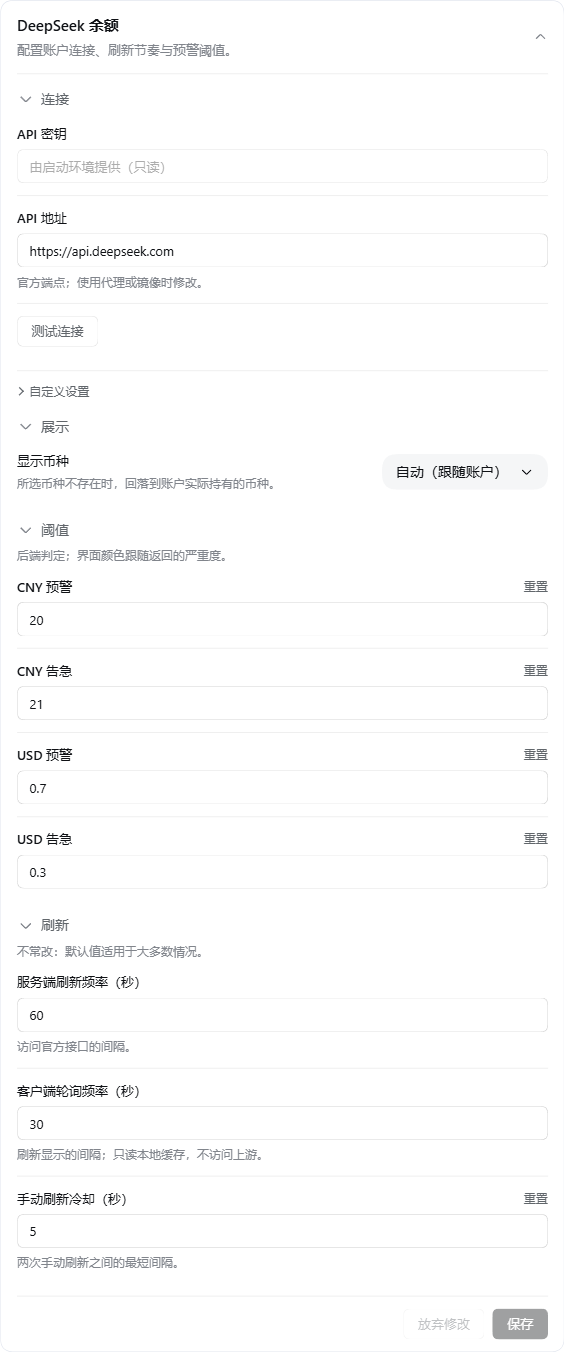
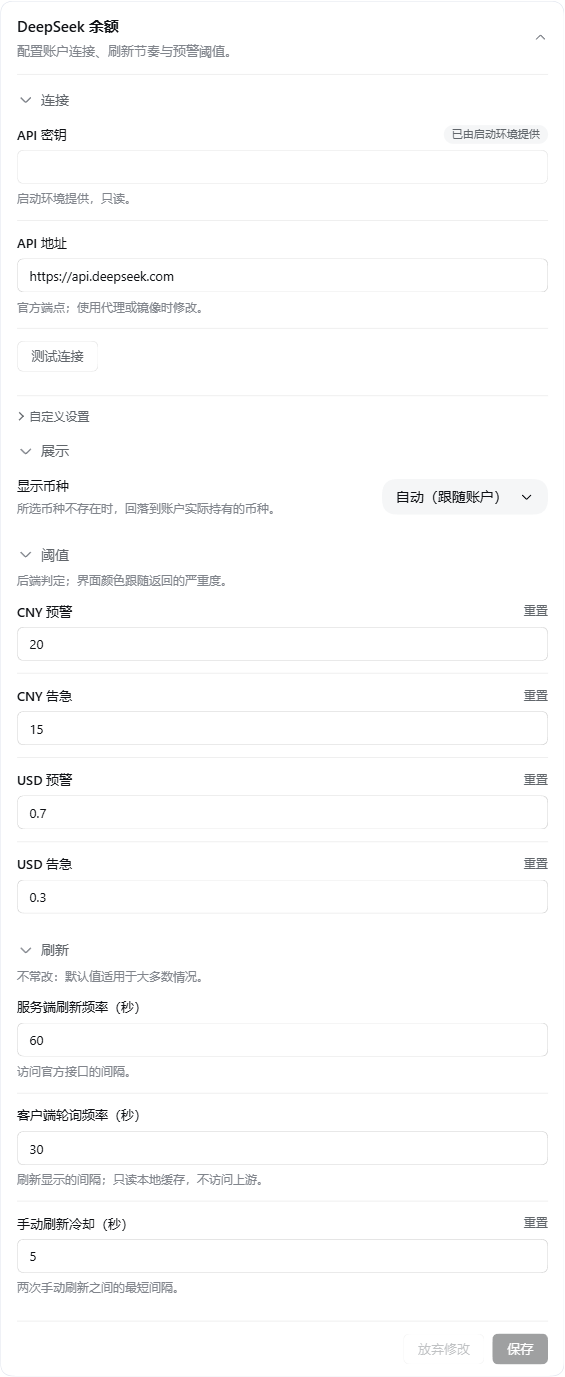
设置卡片：只读凭据行去掉占位符，状态改走徽章与说明行
改了什么
- ReadOnlyControl 不再收 placeholder：框内留空，仍是 disabled 的真输入框。
- 只读凭据行的标签右侧加状态徽章（四档），下方加一行说明。
  四档：已由启动环境提供 / 已配置 / 未配置 / 已覆盖。
- 四个新词典键（中英各四）：settings.hint.credential.{env,configured,notConfigured,overridden}。
  「已配置」那条的说明逐字用官方 webSearchApiKeyHint：不写入设置文件。留空表示保持当前密钥。
- settings.credential.envLocked 从「输入框占位符」改作「状态徽章」，
  文案由「由启动环境提供（只读）」缩成「已由启动环境提供」。

四档的判据抽成纯函数
- use-credential-state.ts 新增 credentialViewOf(credential, overridden) 与类型 CredentialView。
- 它回答的是「当前生效的值从哪来」，不是「这个框能不能改」；优先级：覆盖 > 环境 > 配没配。
- 读不到凭据信息（null）一律当「环境提供」—— 这一行本来就是只读展示，
  说「环境提供」在任何未知下都不会说错话，也不会因为宿主旧结构把卡片打挂。
- 抽出来的理由是这条优先级最容易改错，抽出来才有专门用例兜底。

为什么去掉占位符
- 灰字写在框里读起来像「这里该填但没填」，而这一行恰恰是不能填的。
- 状态与因由分开：徽章答「现在是什么」，说明行答「为什么」。

apiKeyRef
- 它在「自定义设置」折叠里、本来就是可编辑字段，徽章早走 credentialStatus（已配置 / 未配置 / 已覆盖）。
  本次只保证四档措辞一致，未改结构。

截图同批重截
- 这次动的是卡片渲染面（JSX 结构 + 文案），按 assets/AGENTS.md 的判据必须重截。
- 两张在同一轮里重拍：中文先拍，切 English 再拍，拍完把语言切回中文。
- 图里 API 密钥那一行现在是「框内留空 + 徽章 + 说明行」，与代码一致。

文档同步（9 处）
- docs/ARCHITECTURE.md 两处：徽标清单、连接组两段式的描述。
- docs/backend-architecture.md：凭据段落的措辞。
- src/client/settings/README.md：ReadOnlyControl 与 use-credential-state 的职责 / 导出 / 改后必测。
- src/client/settings/AGENTS.md：只读形态那条规则重写，并新增「四档只有一个判据」。
- 根 README / README_en：能力清单的徽标措辞。
- assets/README.md、assets/AGENTS.md：截图判据补「框内应当是空的」。

怎么验证
- npm test 26 个文件 283 个用例全过（原 25 / 278；新增 test/use-credential-state.test.ts 的 5 条）。
- npm run typecheck 三段退出码 0；check-links 0 错 0 警；check-line-endings 0 不一致。
- 两张截图逐张读过：API 密钥行是空框 + 徽章「已由启动环境提供」/「Provided by launch environment」
[…]

diff --git a/src/client/settings/BalanceSettingsCard.tsx b/src/client/settings/BalanceSettingsCard.tsx
@@ -19,7 +19,8 @@ import {
 import type { FieldStatus, SelectorOption } from './fields.tsx'
 import { AUTO_CURRENCY, currencyCodes, useConfigForm } from './use-config-form.ts'
 import type { SettingsScope } from './use-config-form.ts'
-import { useCredentialState } from './use-credential-state.ts'
+import { credentialViewOf, useCredentialState } from './use-credential-state.ts'
+import type { CredentialView } from './use-credential-state.ts'
 import css from './BalanceSettingsCard.module.css'
 import fieldCss from './fields.module.css'
 
@@ -35,6 +36,25 @@ export interface BalanceSettingsCardProps {
 
 /** 与宿主 schema 的默认值逐字一致的凭据引用名；快照缺字段时兜底。 */
 const DEFAULT_API_KEY_REF = 'DEEPSEEK_API_KEY'
+
+/**
+ * 只读凭据行的状态徽章。
+ * 四档的判据在 `use-credential-state.ts` 的 `credentialViewOf`：它答的是「当前生效的值从哪来」。
+ */
+const CREDENTIAL_BADGE: Readonly<Record<CredentialView, LocaleKey>> = {
+  env: 'settings.credential.envLocked',
+  configured: 'settings.configured',
+  notConfigured: 'settings.notConfigured',
+  overridden: 'settings.overridden',
+}
+
+/** 徽章下方那一行说明，逐档对应。 */
+const CREDENTIAL_HINT: Readonly<Record<CredentialView, LocaleKey>> = {
+  env: 'settings.hint.credential.env',
+  configured: 'settings.hint.credential.configured',
+  notConfigured: 'settings.hint.credential.notConfigured',
+  overridden: 'settings.hint.credential.overridden',
+}
 
 /** 四个配置分组的键。 */
 type GroupKey = 'connection' | 'display' | 'thresholds' | 'refresh'
@@ -193,13 +213,9 @@ export function BalanceSettingsCard({ t, scope }: BalanceSettingsCardProps) {
     ? apiKeyRef.effective
     : DEFAULT_API_KEY_REF
   const credential = useCredentialState(effectiveRef)
-  // 读不到一律当「只读」：这个字段本来就是只读状态展示，编辑入口在下面的「自定义设置」，
-  // 所以「当只读」在任何一种未知情况下都不会说错话，也不会因为字段缺失把卡片打挂。
-  const credentialPlaceholder = credential?.writable === true
-    ? credential.configured
-      ? t('settings.configured')
-      : t('settings.notConfigured')
-    : t('settings.credential.envLocked')
+  // 只读凭据行显示哪一档：覆盖优先（折叠里存过值就是它生效），其次才看宿主能不能写。
+  // 「读不到就说什么」的策略也在这个函数里，见它的文档注释。
+  const credentialView = credentialViewOf(credential, apiKey.stored || apiKeyRef.stored)
 
   const currency = form.field('displayCurrency')
   const currencyId = typeof currency.value === 'string' && currency.value !== '' ? currency.value : AUTO_CURRENCY
@@ -278,23 +294,26 @@ export function BalanceSettingsCard({ t, scope }: BalanceSettingsCardProps) {
               open={groupOpenNow('connection')}
               onToggle={() => { toggleGroup('connection') }}
             >
-              {/* 凭据状态：只读。结构照搬官方「模型」卡片对「启动环境提供的密钥」的处理 ——
-                  字段照常渲染，disabled + 只读占位说明，整块降到 60%，而不是隐藏或另做只读块。
+              {/* 凭据状态：只读展示。结构照搬官方「模型」卡片对「启动环境提供的密钥」的处理 ——
+                  字段照常渲染，disabled、整块降到 60%，而不是隐藏或另做只读块。
+                  **框内不写字**：状态改由标签行右侧的徽章（四档）与它下方的说明行承担；
+                  灰字占位符读起来像「这里该填但没填」，语气是错的。
                   要覆盖它，展开下方的「自定义设置」。 */}
               <FieldFrame
                 id={FIELD_IDS.apiKeyState ?? 'apiKeyState'}
                 label={t('settings.field.apiKey')}
+                status={{ label: t(CREDENTIAL_BADGE[credentialView]), tone: credentialView === 'notConfigured' ? 'quiet' : 'neutral' }}
                 pending={false}
                 resettable={false}
                 pendingLabel={t('settings.unsaved')}
                 resetLabel={t('settings.reset')}
                 invalid={false}
+                hint={t(CREDENTIAL_HINT[credentialView])}
                 disabled
                 onReset={() => {}}
               >
                 <ReadOnlyControl
                   id={FIELD_IDS.apiKeyState ?? 'apiKeyState'}
-                  placeholder={credentialPlaceholder}
                 />
               </FieldFrame>
 

diff --git a/src/client/locales.ts b/src/client/locales.ts
@@ -60,8 +60,14 @@ export const zh = {
   'settings.hint.clientPollSeconds': '刷新显示的间隔；只读本地缓存，不访问上游。',
   'settings.hint.manualRefreshCooldownSeconds': '两次手动刷新之间的最短间隔。',
   'settings.currency.auto': '自动（跟随账户）',
-  // 逐字对齐官方 settings.models 的 keyEnvLocked：凭据由启动环境提供时字段不可写。
-  'settings.credential.envLocked': '由启动环境提供（只读）',
+  // 凭据只读时的**状态徽章**文案。此前这里放的是输入框占位符，逐字抄官方 settings.models
+  // 的 keyEnvLocked；现在输入框留空、状态走标签行右侧的徽章，措辞随之改短。
+  'settings.credential.envLocked': '已由启动环境提供',
+  // 只读凭据行下方的说明，按状态四选一。其中「已配置」那条逐字用官方 webSearchApiKeyHint。
+  'settings.hint.credential.env': '启动环境提供，只读。',
+  'settings.hint.credential.configured': '不写入设置文件。留空表示保持当前密钥。',
+  'settings.hint.credential.notConfigured': '尚未配置。',
+  'settings.hint.credential.overridden': '使用自定义设置里的值，忽略继承。',
   'settings.group.customized': '自定义设置',
   'settings.test': '测试连接',
   'settings.testing': '测试中…',
@@ -151,7 +157,11 @@ export const en: Record<LocaleKey, string> = {
   'settings.hint.clientPollSeconds': 'How often the display refreshes; local cache only.',
   'settings.hint.manualRefreshCooldownSeconds': 'Minimum gap between two manual refreshes.',
   'settings.currency.auto': 'Automatic (follow account)',
-  'settings.credential.envLocked': 'Provided by the launch environment (read-only)',
+  'settings.credential.envLocked': 'Provided by launch environment',
+  'settings.hint.credential.env': 'Provided by the launch environment; read-only.',
+  'settings.hint.credential.configured': 'Never written to the settings file. Leave empty to keep the current key.',
+  'settings.hint.credential.notConfigured': 'Not configured yet.',
+  'settings.hint.credential.overridden': 'Uses the value in Customised settings; the inherited one is ignored.',
   'settings.group.customized': 'Customized settings',
   'settings.test': 'Test connection',
   'settings.testing': 'Testing…',

diff --git a/test/use-credential-state.test.ts b/test/use-credential-state.test.ts
@@ -1,0 +1,44 @@
+import { describe, expect, it } from 'vitest'
+import type { CredentialInfo } from '../src/client/data.ts'
+import { credentialViewOf } from '../src/client/settings/use-credential-state.ts'
+
+/** 造一份凭据描述；只覆写关心的字段。 */
+function credential(patch: Partial<CredentialInfo> = {}): CredentialInfo {
+  return { ref: 'DEEPSEEK_API_KEY', configured: true, source: 'env', writable: true, ...patch }
+}
+
+describe('credentialViewOf', () => {
+  it('覆盖优先：折叠里存过值，生效的就是折叠里那一份', () => {
+    // 宿主可写、凭据域也已配置，但用户在「自定义设置」里放了自己的值。
+    expect(credentialViewOf(credential(), true)).toBe('overridden')
+    // 环境提供时也一样：这一行显示的是当前生效值，不是这个框能不能改。
+    expect(credentialViewOf(credential({ writable: false }), true)).toBe('overridden')
+    expect(credentialViewOf(null, true)).toBe('overridden')
+  })
+
+  it('可写时按配没配分档', () => {
+    expect(credentialViewOf(credential(), false)).toBe('configured')
+    expect(credentialViewOf(credential({ configured: false }), false)).toBe('notConfigured')
+  })
+
+  it('writable 不是 true 时一律算「启动环境提供」', () => {
+    expect(credentialViewOf(credential({ writable: false }), false)).toBe('env')
+    // 值就在环境里，「配没配」不再影响这一行。
+    expect(credentialViewOf(credential({ writable: false, configured: false }), false)).toBe('env')
+  })
+
+  it('读不到凭据信息时当「启动环境提供」，不抛错也不误报可写', () => {
+    // 宿主旧版本、请求失败、字段缺失都走这一条。
+    expect(credentialViewOf(null, false)).toBe('env')
+  })
+
+  it('四档都取得到，没有漏档', () => {
+    const seen = new Set([
+      credentialViewOf(credential(), true),
+      credentialViewOf(credential(), false),
+      credentialViewOf(credential({ configured: false }), false),
+      credentialViewOf(credential({ writable: false }), false),
+    ])
+    expect([...seen].sort()).toEqual(['configured', 'env', 'notConfigured', 'overridden'])
+  })
+})

diff --git a/src/client/settings/fields.tsx b/src/client/settings/fields.tsx
@@ -180,21 +180,22 @@ export function TextControl(props: TextControlProps) {
 }
 
 /**
- * 只读输入：字段照常渲染，但不可编辑，占位符说明为什么。
+ * 只读输入：字段照常渲染，但不可编辑，**框内不写任何文字**。
  *
- * 逐字照搬官方 ProviderEditor 处理「凭据由启动环境提供」的做法：
- * 不是隐藏字段、也不是换一块只读文本，而是 `disabled` 的真输入框配只读占位说明。
- * `readOnly` 与 `disabled` 同时给：前者挡住程序化写入，后者给出官方的视觉与可访问语义。
+ * 不从「隐藏字段」也不从「换一块只读文本」走：仍是 `disabled` 的真输入框，
+ * 与官方凭据字段同一形态。`readOnly` 与 `disabled` 同时给 ——
+ * 前者挡住程序化写入，后者给出官方的视觉与可访问语义。
+ *
+ * **为什么没有 placeholder**：灰字写在框里读起来像「这里该填但没填」。
+ * 只读的因由改由标签行右侧的状态徽章与它下方的说明行承担，那两处的措辞来自词典。
  */
 export interface ReadOnlyControlProps {
   id: string
-  /** 只读原因，逐字来自词典。 */
-  placeholder: string
 }
 
 /**
  * 渲染只读输入。
- * @param props - 控件 id 与只读占位说明。
+ * @param props - 控件 id。
  * @returns 输入框元素。
  */
 export function ReadOnlyControl(props: ReadOnlyControlProps) {
@@ -206,7 +207,6 @@ export function ReadOnlyControl(props: ReadOnlyControlProps) {
       value=""
       readOnly
       disabled
-      placeholder={props.placeholder}
     />
   )
 }

diff --git a/src/client/settings/use-credential-state.ts b/src/client/settings/use-credential-state.ts
@@ -13,6 +13,33 @@
 import { useEffect, useState } from 'react'
 import { requestConfig, type CredentialInfo } from '../data.ts'
 
+/** 只读凭据行要显示的状态。 */
+export type CredentialView = 'env' | 'configured' | 'notConfigured' | 'overridden'
+
+/**
+ * 决定只读凭据行显示哪一档。
+ *
+ * 它回答的是「**当前生效的值从哪来**」，不是「这个框能不能改」：
+ * - `overridden` 优先：折叠里存过 apiKey 或引用名时，生效的就是折叠里那一份。
+ * - 其次看宿主能不能写：写不了就是启动环境给的。
+ * - 再退到「配没配」。
+ * - 凭据信息读不到（`null`）一律当 `env`：这一行本来就是只读展示，编辑入口在下面的
+ *   「自定义设置」，所以「环境提供」在任何未知情况下都不会说错话，也不会因为字段缺失把卡片打挂。
+ *
+ * 优先级本身有测试兜底（`test/use-credential-state.test.ts`）—— 它是最容易被改错的一处。
+ * @param credential - 宿主的凭据描述；`null` 表示读不到。
+ * @param overridden - 用户层是否存着覆盖值（`apiKey` 或引用名）。
+ * @returns 四档之一。
+ */
+export function credentialViewOf(
+  credential: CredentialInfo | null,
+  overridden: boolean,
+): CredentialView {
+  if (overridden) return 'overridden'
+  if (credential?.writable !== true) return 'env'
+  return credential.configured ? 'configured' : 'notConfigured'
+}
+
 /**
  * 订阅凭据的只读描述。
  * @param ref - 当前生效的凭据引用名；它一变就重读一次。

diff --git a/src/client/settings/README.md b/src/client/settings/README.md
@@ -34,7 +34,7 @@
 - 职责：字段行的容器与全部控件，以及分组的折叠头。
 - 关键导出：`FieldGroup`、`FieldFrame`、`FieldBadges`、`TextControl`、`ReadOnlyControl`、`SecretControl`、`SelectorControl`、`ActionRow`、`DetailsGroup`，以及类型 `FieldStatus` 与 `SelectorOption`。
 - `FieldGroup` 的折叠头用原语 `DisclosureRow`，不自己画；展开体由原语在 open 时条件渲染，无动画。
-- `ReadOnlyControl` 是只读输入：字段照常渲染、`disabled` + 只读占位说明，逐字照搬官方 `ProviderEditor` 处理「凭据由启动环境提供」的做法。
+- `ReadOnlyControl` 是只读输入：字段照常渲染、`disabled`、**框内不写任何文字**，形态照搬官方 `ProviderEditor` 的凭据字段。只读的因由改由标签行右侧的状态徽章与它下方的说明行承担，两处文案都来自词典。
 - `DetailsGroup` 是**二级折叠**，用原生 `<details>`/`<summary>` 而不是 `DisclosureRow` —— 官方那一处也是原生 details 配一个 `::before` 折角。它是受控但跟手的：`open` 由 state 持有，用户拨动时从 DOM 读回真实状态，卡片重渲染不会把它弹回去。
 - 类名拼接统一用官方 `clsx`（平台样式规则要求），不自备工具函数。
 - 被谁依赖：`BalanceSettingsCard.tsx`。
@@ -49,12 +49,13 @@
 
 ### use-credential-state.ts
 
-- 职责：问 `GET /api/v1/config` 要凭据的三个事实（`configured` / `source` / `writable`），决定凭据字段显示「由启动环境提供（只读）」还是「已配置 / 未配置」。
-- 关键导出：`useCredentialState(ref)`，返回 `CredentialInfo | null`。
+- 职责：问 `GET /api/v1/config` 要凭据的三个事实（`configured` / `source` / `writable`），决定只读凭据行显示哪一档。
+- 关键导出：`useCredentialState(ref)`（返回 `CredentialInfo | null`）、`credentialViewOf(credential, overridden)` 与类型 `CredentialView`。
+- `credentialViewOf` 是四档的唯一判据，优先级是 覆盖 > 环境 > 配没配；**组件里不许另写一份分支**。
 - **读不到一律当 `null`**：宿主旧版本、请求失败、字段缺失都走这一条，绝不把 `undefined` 漏进组件（否则卡片会崩、整个 slot 条目消失）。
 - 引用名一变就重读一次；用的是**生效**引用名，草稿未保存时后端认的仍是存下来的那个。
 - 被谁依赖：`BalanceSettingsCard.tsx`。
-- 改后必测：宿主回旧结构时卡片仍渲染；`writable: false` 时占位符是官方那句只读说明。
+- 改后必测：宿主回旧结构时卡片仍渲染（读不到一律当「环境提供」）；四档的优先级有专门用例，见 [test/use-credential-state.test.ts](../../../test/use-credential-state.test.ts)。
 
 ### use-config-form.ts
 

diff --git a/docs/ARCHITECTURE.md b/docs/ARCHITECTURE.md
@@ -36,11 +36,12 @@
 - 依赖锚点跟随宿主运行的 alpha 线。
 - 设置卡片分四组、各自可折叠，顺序是 连接 → 展示 → 阈值 → 刷新（按使用频率排）；宿主 `Config` 的字段顺序是 连接 → 刷新 → 展示 → 阈值（按任务书排）。**两者有意不同，不要改成一样。**
 - 四组默认全收起，卡片一打开只占四行折叠头；组内有非法草稿时该组强制展开 —— 非法会禁用保存，收起的组会让 footer 的「请检查标红的字段」指向看不见的地方。
-- 凭据字段（`apiKey` / `apiKeyRef`）在标签行右侧带状态胶囊：已覆盖 / 已配置 / 未配置。
+- 凭据字段（`apiKey` / `apiKeyRef`）在标签行右侧带状态胶囊：已由启动环境提供 / 已覆盖 / 已配置 / 未配置。
 - 「显示币种」是整行左右布局（左文字 + 右选择器胶囊），不是上下结构。
-- **连接组照搬官方「模型」卡片的两段式**：外面是只读的凭据状态（disabled 输入框 + 只读占位说明 + 60% 透明度）
+- **连接组照搬官方「模型」卡片的两段式**：外面是只读的凭据状态（disabled 输入框 + 标签行右侧的状态徽章 + 60% 透明度）
   与可编辑的 Base URL；`apiKey` / `apiKeyRef` 收进二级「自定义设置」折叠，默认收起。
-  官方只有 `keyEnvLocked` 这条措辞且属于 `settings.models` 命名空间，别的插件拿不到，所以同义文案自备。
+  **框内不写占位符** —— 灰字写在框里读起来像「这里该填但没填」，状态改由徽章与它下方那行说明承担。
+  官方那两条同义措辞属于 `settings.models` 命名空间、别的插件拿不到，所以文案自备。
 - **阈值改动立刻反映到界面**：设置快照变化 → 前端按**配置指纹**重问一次 `/api/v1/balance`；
   后端从缓存快照按新阈值重算 severity，**不打上游**。宿主侧只有取数节奏相关字段变化才重排调度。
 - 金额在进程内一律 `bigint` 最小单位，只在序列化时变成八位小数字符串；**截断，不四舍五入**。

diff --git a/src/client/settings/AGENTS.md b/src/client/settings/AGENTS.md
@@ -12,7 +12,10 @@ settings/ 特有约束：
 - 纵向间距只有两个所有者：`.group` 的顶部 12px 与 `.groupLast` 的尾部 12px（[fields.module.css](fields.module.css)）；新加元素不许在旁边叠 margin。
 - 分组折叠头一律用原语 `DisclosureRow`，不自己画（[fields.tsx](fields.tsx) 的 `FieldGroup`）。
   - **例外**：连接组里的二级「自定义设置」用原生 `<details>`（[fields.tsx](fields.tsx) 的 `DetailsGroup`），因为官方 `ProviderEditor` 那一处就是这么做的；本插件照搬官方形态优先于自定规则。
-- 凭据字段的只读形态照搬官方：`disabled` + 只读占位说明 + 60% 透明度，**不隐藏字段、不另做只读块**。官方只有 `keyEnvLocked` 一条措辞且属于 `settings.models` 命名空间，别的插件拿不到，所以同义文案自备（[../locales.ts](../locales.ts) 的 `settings.credential.envLocked`）。
+- 凭据字段的只读形态照搬官方：`disabled` + 60% 透明度，**不隐藏字段、不另做只读块、框内不写占位符**。
+  状态走标签行右侧的徽章，因由走它下方那行说明；两处的键分别是 `settings.credential.*` 与 `settings.hint.credential.*`（[../locales.ts](../locales.ts)）。
+  官方那两条同义措辞属于 `settings.models` 命名空间、别的插件拿不到，所以文案自备。
+- 只读凭据行的四档只有一个判据：[use-credential-state.ts](use-credential-state.ts) 的 `credentialViewOf`（覆盖 > 环境 > 配没配）。**不许在组件里另写一份分支。**
 - **读宿主新增字段必须先过形状守卫**：客户端半边由 HMR 立刻换新，宿主半边要重启才换。见 [../data.ts](../data.ts) 的 `readCredential` 与 [use-credential-state.ts](use-credential-state.ts)。
 - 错误文本用 `var(--dsw-alias-state-error-primary)`；官方 `--dsw-alias-label-error` 从未定义，照抄会静默失效。
 - 选择器触发 pill 没有公共组件，取值照抄 `packages/client/locale/src/client/LanguageRow.module.css:28-51`。

diff --git a/assets/AGENTS.md b/assets/AGENTS.md
@@ -15,7 +15,7 @@
 - [BalanceSettingsCard.tsx](../src/client/settings/BalanceSettingsCard.tsx) 的 **JSX 结构**：字段增删、顺序、按钮、状态行
 - [fields.tsx](../src/client/settings/fields.tsx) 的**控件形态**：只读行、折叠头、二级 details
 - 三个 `*.module.css` 的**样式值**：字号、行高、间距、令牌、布局
-- 卡片**可见状态**的语义：未保存标记、已配置 / 未配置徽标、只读遮蔽行、失败诊断
+- 卡片**可见状态**的语义：未保存标记、凭据行的四档徽标、只读行留空、失败诊断
 
 不必重截：
 
@@ -60,8 +60,9 @@
   解除裁剪只发生在自己那个标签页里，拍完关掉即可。
 - **切语言会让当前标签页重载**，切完要重新走一遍「设置 → 插件 → 插件配置」并重新展开四组。
 - 卡片默认四组全收起。**必须展开再拍**，否则图里只有四个折叠头，等于没拍。
-- 凭据行的显示形态取决于宿主：`writable: false` 时是「由启动环境提供（只读）」，
-  否则是「已配置 / 未配置」。两种都合法，图与当时的宿主状态一致即可。
+- 凭据行显示哪一档取决于宿主与用户覆盖：`writable: false` 时徽标是「已由启动环境提供」，
+  否则是「已配置 / 未配置」，用户在折叠里存过值则是「已覆盖」。都合法，图与当时的状态一致即可。
+- 凭据输入框**应当是空的**：只读行不再写占位符。图里若看到框内有灰字，说明截的是旧产物。
 
 ## 验收
 

diff --git a/README_en.md b/README_en.md
@@ -24,7 +24,7 @@ The balance is read from the real `GET /user/balance`; colour comes only from th
 - Popover: total balance, granted / topped-up split, data freshness, and a manual refresh with cooldown.
 - Multiple currencies: the **server** picks which currency to show; when the currency chosen in settings is absent from the account, the popover says so and offers a one-click switch.
 - The settings card has four collapsible groups — Connection / Display / Thresholds / Refresh — all collapsed by default; a group with an invalid draft is forced open.
-- Credential fields carry a "configured / not configured / overridden" badge; the credential is inherited from the official model settings by default, so there is nothing to re-enter.
+- Credential fields carry a "provided by launch environment / configured / not configured / overridden" badge; a read-only field stays empty and lets the badge and the line under it explain why. The credential is inherited from the official model settings by default, so there is nothing to re-enter.
 - Colour comes only from the `severity` the server returns; thresholds only scale the ring arc and never affect colour.
 
 ## Installation

diff --git a/README.md b/README.md
@@ -24,7 +24,7 @@
 - 浮层：余额、赠送 / 充值拆分、数据新鲜度与手动刷新（带冷却）。
 - 多币种：由**后端**选定展示币种；设置里选的币种不在账户里时，浮层说明并给出一键改用。
 - 设置卡片分四组、各自可折叠：连接 / 展示 / 阈值 / 刷新，默认四组全收起；组内有非法草稿时该组强制展开。
-- 凭据字段带「已配置 / 未配置 / 已覆盖」徽标；凭据默认继承官方模型页配好的那一份，不必重填。
+- 凭据字段带「已由启动环境提供 / 已配置 / 未配置 / 已覆盖」徽标；只读时框内留空，由徽标与说明行交代原因。凭据默认继承官方模型页配好的那一份，不必重填。
 - 只按后端给的 `severity` 上色；阈值只用来定圆环弧长，不参与配色。
 
 ## 安装

diff --git a/AGENTS.md b/AGENTS.md
@@ -63,7 +63,7 @@
   链接校验与换行校验在这一轮全部重跑过。
 - 维护者第二轮反馈四项全部落地并实测：刷新按钮冷却期内置灰（`disabled` 为真、状态行「N 秒后可再次刷新」）；
   改阈值圆环当场变色且**上游请求数保持 0**；五档形状 ok 绿实弧 / warn 琥珀实弧 / critical 红实弧 / unavailable 红弧+中心叉号 / unknown 灰实弧；
-  连接组的只读凭据显示「由启动环境提供（只读）」、Base URL 带官方提示、「自定义设置」折叠里有 apiKey 与 apiKeyRef。
+  连接组的只读凭据显示「已由启动环境提供」徽标且框内留空、Base URL 带官方提示、「自定义设置」折叠里有 apiKey 与 apiKeyRef。
 
 ## 待办
 
